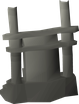
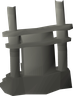
Dark Wizards' Circle: real centre stone, monuments and paving like the OSRS circle
The ritual table sits in the middle on grass; eight monuments (OSRS stone
circle pieces assembled base plus arch) ring it, with broken paving around
them, olive ground and tan dead trees outside. Only the four on the
simulation pillars block.

diff --git a/client/src/render/darkCircle.ts b/client/src/render/darkCircle.ts
@@ -1,35 +1,40 @@
-// The Dark Wizards' Circle arena: the Varrock stone circle from Old School RuneScape. The ground
-// is tiled like RuneScape's (32 px squares in a few shades), and the stones and trees are the
-// game's own renders (client/public/arena/dark-circle, trimmed and scaled by hand). The four
-// standing stones sit exactly on the simulation's pillars, so they are the ones that block.
+// The Dark Wizards' Circle arena: the Varrock stone circle from Old School RuneScape, the one the
+// dark wizards use to summon Delrith. The stones, the ritual table in the middle and the trees are
+// the game's own renders (client/public/arena/dark-circle, trimmed and scaled by hand); the grass
+// and the broken paving around the monuments are drawn here. The four tall monuments on the
+// diagonals sit exactly on the simulation's pillars, so they are the ones that block; the rest, and
+// the table, are scenery you walk past or over.
 import { pillars } from '../../../shared/constants';
 import { TAU } from '../../../shared/math';
 
 const SPRITES = {
   stones: 'standing-stones',
-  fallen: 'fallen-stones',
-  wall: 'broken-wall',
+  twin: 'twin-pillars',
+  arcA: 'arc-a',
+  arcB: 'arc-b',
+  arcC: 'arc-c',
+  table: 'centre-stone',
   tree: 'tree',
   oak: 'oak',
-  dead: 'dead-tree',
+  dead: 'dead-tree-sandy',
 } as const;
 type SpriteName = keyof typeof SPRITES;
+const SPRITE_COUNT = Object.keys(SPRITES).length;
 
 const images = {} as Record<SpriteName, HTMLImageElement>;
 let loaded = 0;
 let cache: HTMLCanvasElement | null = null;
+let builtWithSprites = false;
 for (const name of Object.keys(SPRITES) as SpriteName[]) {
   const img = new Image();
   img.onload = () => {
-    // rebuild the cached picture once every sprite is in
-    if (++loaded === Object.keys(SPRITES).length) cache = null;
+    loaded++;
   };
   img.src = `arena/dark-circle/${SPRITES[name]}.png`;
   images[name] = img;
 }
 
-const GRASS = ['#4a7c23', '#44761f', '#4f8227', '#3f6e1d', '#527f2a'];
-const DIRT = ['#7b5a35', '#735330', '#85633b', '#6b4c2b', '#7e5d38'];
+const GRASS = ['#4e6f47', '#4a6a43', '#53744b', '#46633f', '#587850'];
 const TILE = 32;
 const CENTER = { x: 400, y: 300 };
 
@@ -44,131 +49,158 @@ function seeded(seed: number) {
   };
 }
 
-/** The path from Varrock's south gate: a gently curving track up to the circle. */
-const pathCentre = (y: number) => 400 + 26 * Math.sin((y - 300) / 70);
-
-function isDirt(x: number, y: number, jitter: number) {
-  const dx = (x - CENTER.x) / 215,
-    dy = (y - CENTER.y) / 168;
-  if (dx * dx + dy * dy < 1 + jitter * 0.18) return true;
-  return y > 420 && Math.abs(x - pathCentre(y)) < 40 + jitter * 12;
-}
-
 function ground(c: CanvasRenderingContext2D) {
   const rnd = seeded(7);
   for (let ty = 0; ty < 600; ty += TILE)
     for (let tx = 0; tx < 800; tx += TILE) {
-      const dirt = isDirt(tx + TILE / 2, ty + TILE / 2, rnd() - 0.5);
-      const shades = dirt ? DIRT : GRASS;
-      c.fillStyle = shades[Math.floor(rnd() * shades.length)];
+      c.fillStyle = GRASS[Math.floor(rnd() * GRASS.length)];
       c.fillRect(tx, ty, TILE, TILE);
     }
-  // grass tufts and the odd flower, outside the dirt
-  for (let i = 0; i < 170; i++) {
-    const x = rnd() * 800,
-      y = rnd() * 600;
-    if (isDirt(x, y, 0)) continue;
-    c.strokeStyle = i % 3 ? '#3a6a1a' : '#5d9230';
-    c.lineWidth = 1.5;
-    c.beginPath();
-    c.moveTo(x, y);
-    c.lineTo(x - 2, y - 5);
-    c.moveTo(x, y);
-    c.lineTo(x + 2, y - 6);
-    c.stroke();
-    if (i % 17 === 0) {
-      c.fillStyle = i % 2 ? '#f5e663' : '#f1f5f9';
-      c.beginPath();
-      c.arc(x + 4, y - 3, 1.8, 0, TAU);
-      c.fill();
-    }
-  }
-  // pebbles on the dirt
-  for (let i = 0; i < 60; i++) {
-    const x = 120 + rnd() * 560,
-      y = 130 + rnd() * 440;
-    if (!isDirt(x, y, 0)) continue;
-    c.fillStyle = i % 2 ? '#8a7d6b' : '#5e4d38';
-    c.fillRect(x, y, 3, 2);
-  }
-}
-
-/** Flat summoning circle in the middle of the ring, where the dark wizards gather. */
-function ritual(c: CanvasRenderingContext2D) {
+  // dry, olive ground outside the circle, fading in towards the edges
   c.save();
   c.translate(CENTER.x, CENTER.y);
-  c.scale(1, 0.76);
-  c.fillStyle = '#2b2622aa';
-  c.beginPath();
-  c.arc(0, 0, 100, 0, TAU);
-  c.fill();
-  c.strokeStyle = '#17121c';
-  c.lineWidth = 6;
-  c.beginPath();
-  c.arc(0, 0, 100, 0, TAU);
-  c.stroke();
-  c.strokeStyle = '#7a3b9a';
-  c.lineWidth = 2.5;
-  c.beginPath();
-  c.arc(0, 0, 86, 0, TAU);
-  c.stroke();
-  c.beginPath();
-  for (let i = 0; i < 5; i++) {
-    const a = -Math.PI / 2 + ((i * 2) / 5) * TAU;
-    const px = Math.cos(a) * 86,
-      py = Math.sin(a) * 86;
-    if (i) c.lineTo(px, py);
-    else c.moveTo(px, py);
-  }
-  c.closePath();
-  c.stroke();
-  for (let i = 0; i < 5; i++) {
-    const a = -Math.PI / 2 + (i / 5) * TAU;
-    c.fillStyle = '#b91c1c';
-    c.beginPath();
-    c.arc(Math.cos(a) * 86, Math.sin(a) * 86, 4, 0, TAU);
-    c.fill();
-    c.fillStyle = '#fde68a';
-    c.beginPath();
-    c.arc(Math.cos(a) * 86, Math.sin(a) * 86 - 3, 1.6, 0, TAU);
-    c.fill();
-  }
+  c.scale(1, 0.78);
+  const dry = c.createRadialGradient(0, 0, 300, 0, 0, 470);
+  dry.addColorStop(0, '#7a7a3e00');
+  dry.addColorStop(1, '#7d7a3ecc');
+  c.fillStyle = dry;
+  c.fillRect(-CENTER.x, -CENTER.y / 0.78, 800, 600 / 0.78);
   c.restore();
+  // blades of grass
+  for (let i = 0; i < 900; i++) {
+    const x = rnd() * 800,
+      y = rnd() * 600,
+      lean = (rnd() - 0.5) * 6,
+      len = 5 + rnd() * 7;
+    c.strokeStyle = i % 3 ? '#3e5c39' : i % 3 === 0 ? '#668b58' : '#5a7d4d';
+    c.lineWidth = 1.6;
+    c.beginPath();
+    c.moveTo(x, y);
+    c.lineTo(x + lean, y - len);
+    c.stroke();
+  }
 }
 
-interface Placed {
-  name: SpriteName;
-  x: number;
+/** A patch of broken paving: scattered pale slabs, thickest in the middle. */
+function paving(c: CanvasRenderingContext2D, rnd: () => number, x: number, y: number, r: number) {
+  const n = Math.round(r * 0.6);
+  for (let i = 0; i < n; i++) {
+    const a = rnd() * TAU,
+      d = Math.sqrt(rnd()) * r,
+      px = x + Math.cos(a) * d,
+      py = y + Math.sin(a) * d * 0.72,
+      s = 6 + rnd() * 9,
+      tilt = rnd() * TAU;
+    const pts = [0, 1, 2, 3].map((k) => {
+      const ang = tilt + (k * TAU) / 4 + (rnd() - 0.5) * 0.9;
+      const rr = s * (0.7 + rnd() * 0.5);
+      return [px + Math.cos(ang) * rr, py + Math.sin(ang) * rr * 0.7];
+    });
+    const shade = 150 + Math.floor(rnd() * 70);
+    c.fillStyle = `rgb(${shade}, ${shade}, ${shade - 6})`;
+    c.strokeStyle = '#2f3a2c';
+    c.lineWidth = 1;
+    c.beginPath();
+    pts.forEach(([qx, qy], k) => (k ? c.lineTo(qx, qy) : c.moveTo(qx, qy)));
+    c.closePath();
+    c.fill();
+    c.stroke();
+    // a lit top edge
+    c.strokeStyle = `rgb(${Math.min(255, shade + 30)}, ${Math.min(255, shade + 30)}, ${shade + 20})`;
+    c.beginPath();
+    c.moveTo(pts[0][0], pts[0][1]);
+    c.lineTo(pts[1][0], pts[1][1]);
+    c.stroke();
+  }
+}
+
+interface Item {
+  /** Where its feet are; items are painted from the back of the arena to the front. */
   y: number;
+  draw: (c: CanvasRenderingContext2D) => void;
 }
 
-/** Everything standing on the ground, as sprites whose feet are at (x, y). */
-function placements(): Placed[] {
-  const out: Placed[] = [];
-  // the four stones that block: exactly on the simulation's pillars
-  for (const p of pillars) out.push({ name: 'stones', x: p.x, y: p.y + 20 });
-  // rubble you can walk over, in the lower corners, and flanking the path in the south
-  out.push({ name: 'fallen', x: 120, y: 470 }, { name: 'fallen', x: 690, y: 474 });
-  out.push({ name: 'wall', x: 330, y: 128 }, { name: 'wall', x: 470, y: 130 });
-  out.push({ name: 'wall', x: 285, y: 545 }, { name: 'wall', x: 520, y: 548 });
-  // the tree line
+function sprite(name: SpriteName, x: number, y: number): Item {
+  return {
+    y,
+    draw(c) {
+      const img = images[name];
+      c.fillStyle = '#0a14058c';
+      c.beginPath();
+      c.ellipse(x + 4, y - 2, img.width * 0.36, 6, 0, 0, TAU);
+      c.fill();
+      c.drawImage(img, x - img.width / 2, y - img.height);
+    },
+  };
+}
+
+/** A stone monument: a base (pillars) with an ornamental arch resting on top, as in the circle. */
+function monument(base: 'stones' | 'twin', arch: 'arcA' | 'arcB' | 'arcC', x: number, y: number) {
+  const baseImg = images[base];
+  return {
+    y,
+    draw(c: CanvasRenderingContext2D) {
+      sprite(base, x, y).draw(c);
+      const a = images[arch];
+      c.drawImage(a, x - a.width / 2, y - baseImg.height * 0.78 - a.height + 14);
+    },
+  } satisfies Item;
+}
+
+function items(): Item[] {
+  const out: Item[] = [];
+  // the four that block sit on the pillars; the rest stand around the edge of the playing area
+  const [nw, ne, sw, se] = pillars;
+  out.push(
+    monument('stones', 'arcA', nw.x, nw.y + 20),
+    monument('stones', 'arcB', ne.x, ne.y + 20),
+  );
+  out.push(
+    monument('stones', 'arcB', sw.x, sw.y + 20),
+    monument('stones', 'arcA', se.x, se.y + 20),
+  );
+  out.push(monument('stones', 'arcC', 400, 134), monument('stones', 'arcA', 400, 552));
+  out.push(monument('twin', 'arcB', 58, 312), monument('twin', 'arcA', 742, 308));
+  out.push(sprite('table', CENTER.x, CENTER.y + 16));
+  // the trees outside
   const rnd = seeded(21);
   const tree = (x: number, y: number) =>
-    out.push({ name: rnd() < 0.18 ? 'dead' : rnd() < 0.5 ? 'oak' : 'tree', x, y });
-  for (let x = 10; x < 800; x += 82 + rnd() * 20) tree(x, 128 + rnd() * 36);
-  for (let x = 20; x < 800; x += 86 + rnd() * 20)
-    if (Math.abs(x - 400) > 95) tree(x, 592 + rnd() * 12);
-  for (let y = 215; y < 560; y += 92 + rnd() * 20) {
-    tree(22 + rnd() * 24, y);
-    tree(776 - rnd() * 24, y + 20);
+    out.push(sprite(rnd() < 0.3 ? 'dead' : rnd() < 0.5 ? 'oak' : 'tree', x, y));
+  // keep the trees off the monuments at the top, bottom and sides
+  for (let x = 10; x < 800; x += 96 + rnd() * 24) {
+    const y = 100 + rnd() * 30;
+    if (Math.abs(x - 400) > 120) tree(x, y);
+  }
+  for (let x = 40; x < 800; x += 100 + rnd() * 24) {
+    const y = 596 + rnd() * 10;
+    if (Math.abs(x - 400) > 120) tree(x, y);
+  }
+  for (let y = 215; y < 560; y += 105 + rnd() * 20) {
+    const left = 18 + rnd() * 14,
+      right = 782 - rnd() * 14;
+    if (Math.abs(y - 310) > 90) tree(left, y);
+    if (Math.abs(y + 24 - 310) > 90) tree(right, y + 24);
   }
   return out.sort((a, b) => a.y - b.y);
 }
 
+/** Where the broken paving lies: around each monument, and in loose patches inside the ring. */
+const PAVING: [number, number, number][] = [
+  ...pillars.map((p): [number, number, number] => [p.x, p.y + 12, 82]),
+  [400, 138, 86],
+  [400, 546, 86],
+  [70, 312, 78],
+  [730, 310, 78],
+  [310, 396, 70],
+  [500, 214, 62],
+  [480, 396, 54],
+  [300, 200, 54],
+];
+
 function vignette(c: CanvasRenderingContext2D) {
-  const v = c.createRadialGradient(400, 310, 260, 400, 310, 520);
+  const v = c.createRadialGradient(400, 310, 300, 400, 310, 540);
   v.addColorStop(0, '#00000000');
-  v.addColorStop(1, '#0a1405aa');
+  v.addColorStop(1, '#10140a88');
   c.fillStyle = v;
   c.fillRect(0, 0, 800, 600);
 }
@@ -179,27 +211,20 @@ function build() {
   canvas.height = 600;
   const c = canvas.getContext('2d')!;
   ground(c);
-  ritual(c);
-  if (loaded === Object.keys(SPRITES).length)
-    for (const p of placements()) {
-      const img = images[p.name];
-      c.fillStyle = '#0a14058c';
-      c.beginPath();
-      c.ellipse(p.x + 4, p.y - 2, img.width * 0.36, 6, 0, 0, TAU);
-      c.fill();
-      c.drawImage(img, p.x - img.width / 2, p.y - img.height);
-    }
+  const rnd = seeded(99);
+  for (const [x, y, r] of PAVING) paving(c, rnd, x, y, r);
+  if (loaded === SPRITE_COUNT) for (const item of items()) item.draw(c);
   vignette(c);
   return canvas;
 }
 
 /** Draws the whole arena. It is painted once into an off-screen canvas and copied each frame. */
 export function darkCircleScenery(g: CanvasRenderingContext2D) {
-  const ready = loaded === Object.keys(SPRITES).length;
+  const ready = loaded === SPRITE_COUNT;
+  // paint again once the sprites have arrived, if the first picture was made without them
   if (!cache || (ready && !builtWithSprites)) {
     cache = build();
     builtWithSprites = ready;
   }
   g.drawImage(cache, 0, 0);
 }
-let builtWithSprites = false;
